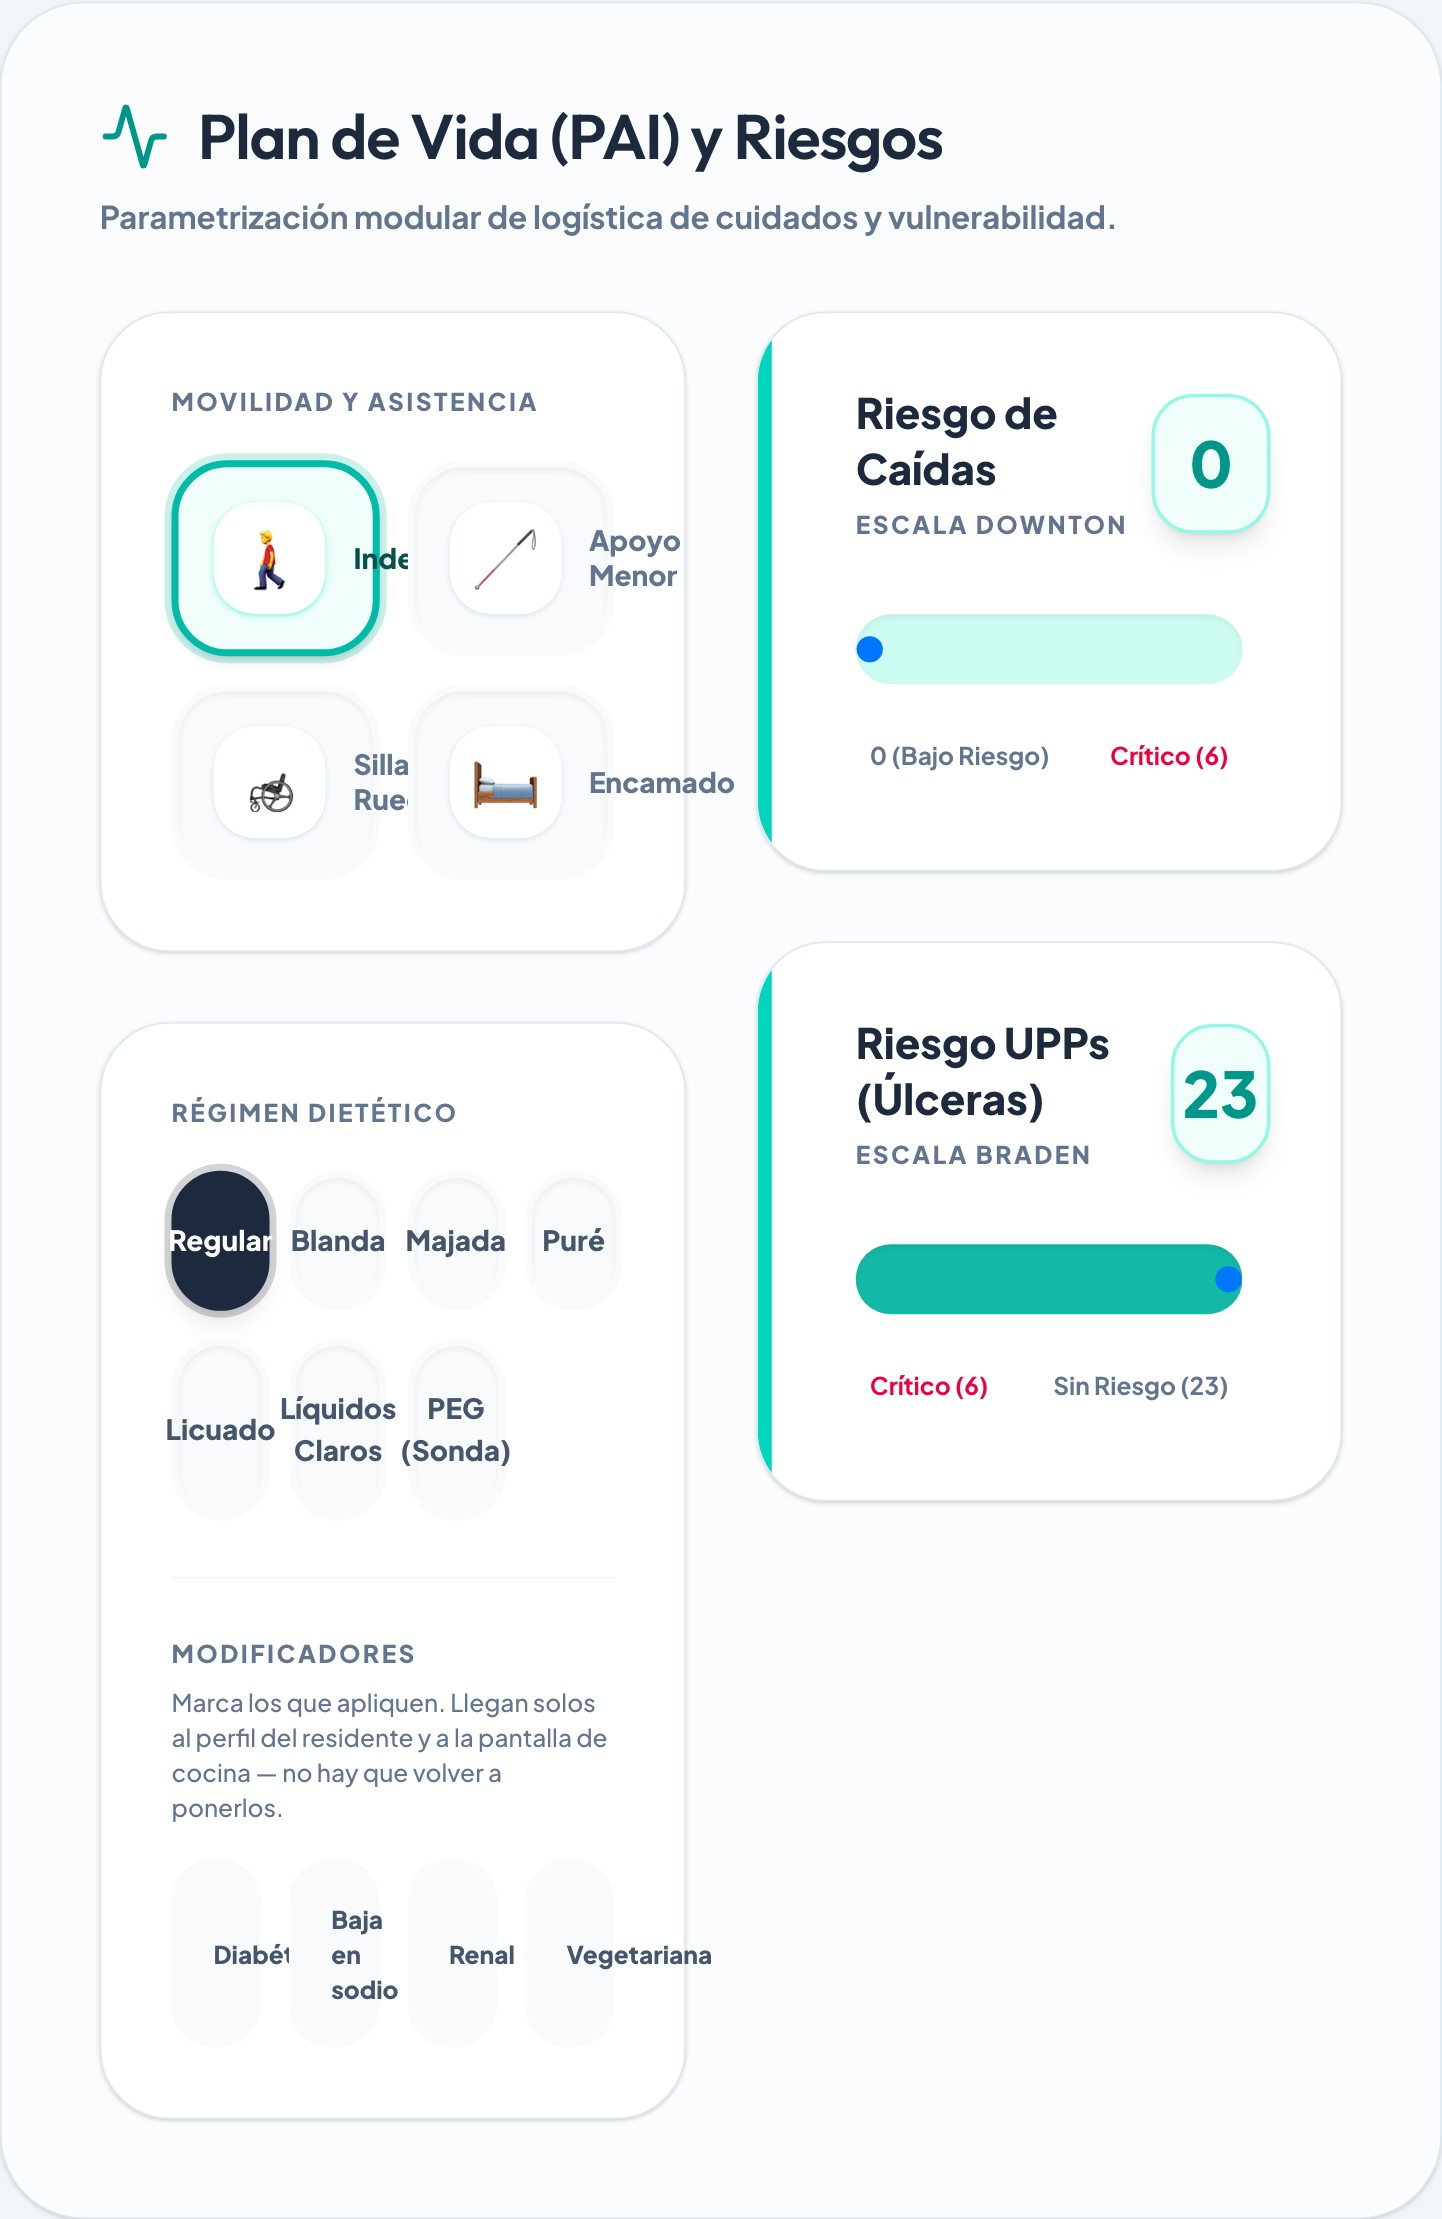
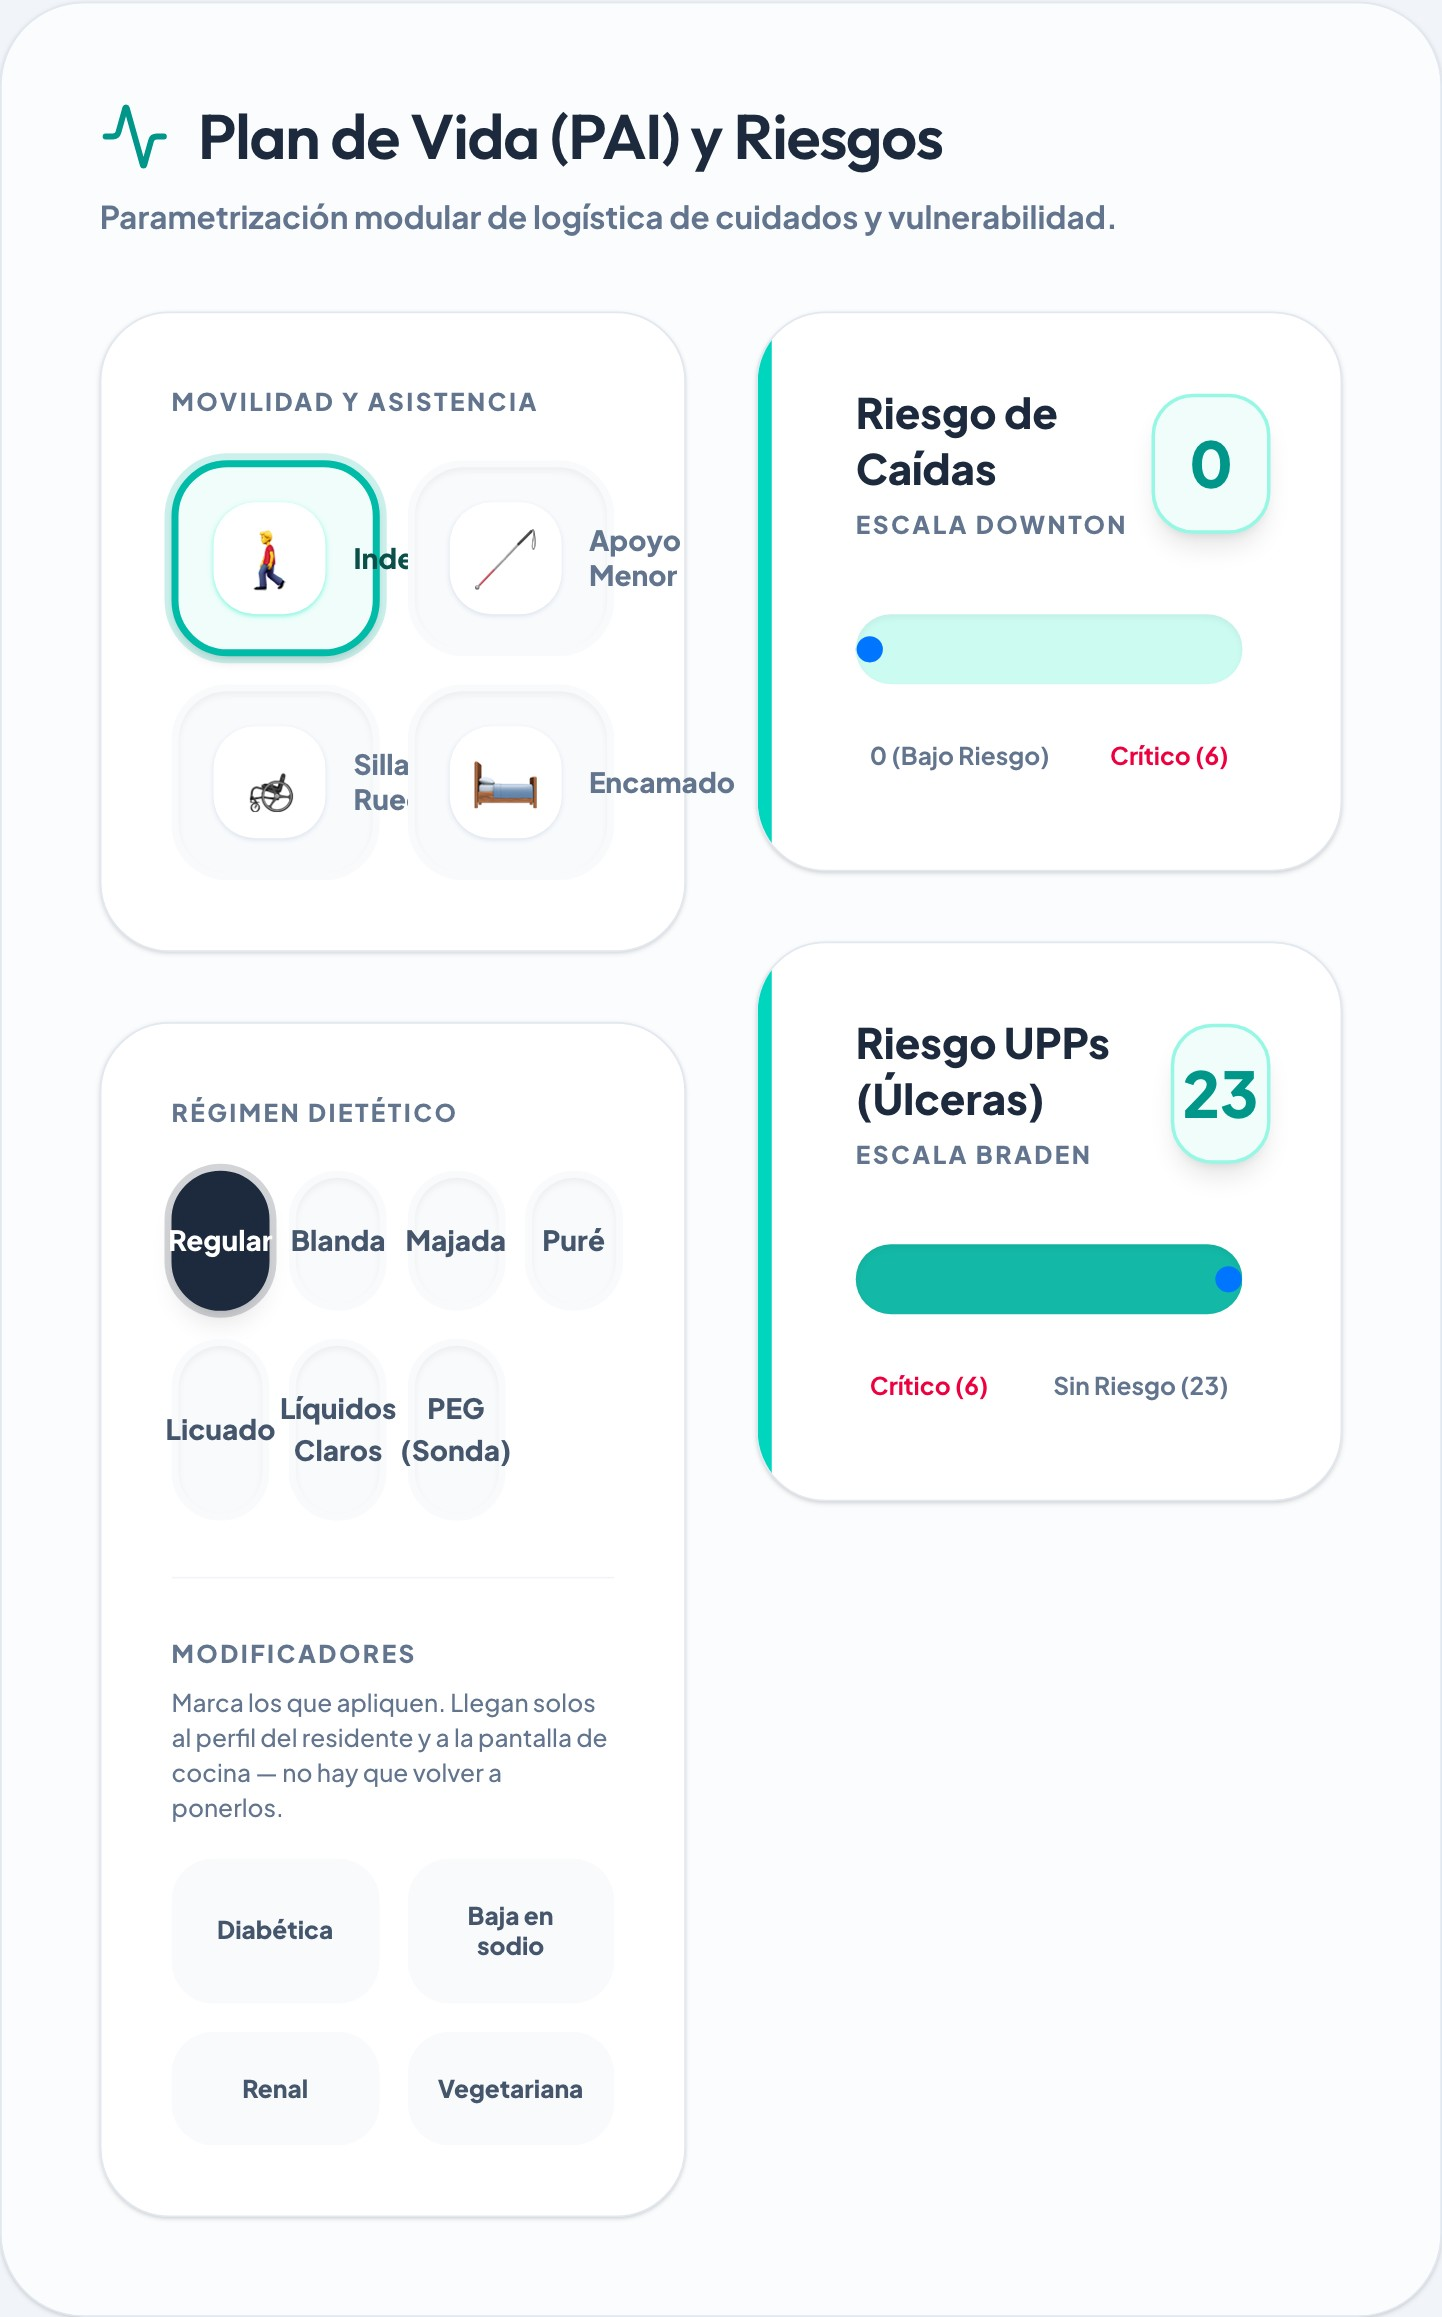
fix(intake): los modificadores de dieta salian cortados, y tres fotos nuevas
A cuatro columnas en una tarjeta estrecha, "Diabetica" se leia "Diab" y
"Vegetariana" se salia del boton. A dos columnas caben enteros.

De paso, el andamio de capturas ya sabe ESCRIBIR en un campo, no solo pulsar:
hacia falta para fotografiar la pauta semanal de punta a punta —nombre, hora,
"Solo ciertos dias", el viernes— que es como se documenta el caso del
alendronato en el material de Celia.

Tres tomas nuevas: la dieta con textura y modificadores, el selector de dias
abierto con su aviso, y el borrador ya con la etiqueta "Solo Viernes".

diff --git a/scripts/capturas/tomar.ts b/scripts/capturas/tomar.ts
@@ -26,8 +26,13 @@ interface Toma {
     esperar?: string;
     /** recorta a este selector en vez de a la página entera */
     recortar?: string;
-    /** clics previos, para fotografiar un modal o una pestaña */
-    clics?: string[];
+    /**
+     * Lo que hay que hacer antes de disparar, EN ORDEN: un selector suelto es
+     * un clic; {escribir, en} teclea en un campo. Van mezclados a proposito —
+     * una pauta semanal se fotografia escribiendo el nombre, marcando la hora,
+     * pulsando "Solo ciertos dias" y luego el dia, en ese orden y no en otro.
+     */
+    clics?: (string | { escribir: string; en: string })[];
     /**
      * Foto de la pagina ENTERA en vez de lo que cabe en pantalla.
      *
@@ -125,6 +130,30 @@ const TOMAS: Toma[] = [
     { nombre: "intake-paso-3-riesgos", ruta: '/capturas/intake', ancho: 1280, alto: 900, esperar: "text=Bloques de Admisión", recortar: "div.flex-1.bg-white", clics: ["text=Dieta, UPP, Caídas"] },
     //   El bloque de PAI y Riesgos: dieta, movilidad, continencia y los dos marcadores con sus escalas, Downton (caídas) y Braden (UPP), que cambian de teal a
     { nombre: "intake-paso-4-emar", ruta: '/capturas/intake', ancho: 1280, alto: 900, esperar: "text=Bloques de Admisión", recortar: "div.flex-1.bg-white", clics: ["text=eMAR Borrador"] },
+    { nombre: "intake-dieta-modificadores", ruta: '/capturas/intake', ancho: 1800, alto: 1000, esperar: "text=Modificadores", recortar: 'div.bg-white:has(> label:text-is("Régimen Dietético"))', clics: ["text=Dieta, UPP, Caídas", "text=Blanda", "text=Diabética", "text=Renal"] },
+    //   El bloque de dieta del paso 3 con la textura Blanda escogida arriba y dos
+    //   modificadores marcados en teal debajo (Diabetica y Renal). Es la foto de que
+    //   la dieta COMPLETA sale del ingreso y no hay que volver a marcarla en el perfil.
+    { nombre: "intake-medicamento-semanal", ruta: '/capturas/intake', ancho: 1280, alto: 1000, esperar: "text=Solo Viernes", recortar: "div.flex-1.bg-white", clics: [
+        "text=eMAR Borrador",
+        { escribir: "Alendronato 70 mg", en: 'input[placeholder*="Losartan"]' },
+        "text=08:00 AM",
+        "text=Solo ciertos días",
+        'button:text-is("V")',
+        'button:text-is("Añadir")',
+    ] },
+    //   El caso del alendronato de punta a punta: nombre, la hora de las 8, "Solo
+    //   ciertos dias", el viernes marcado, y abajo el borrador ya con la etiqueta
+    //   ambar "Solo Viernes". Antes esto habia que arreglarlo despues en Med & Zoning.
+    { nombre: "intake-medicamento-dias", ruta: '/capturas/intake', ancho: 1280, alto: 1000, esperar: "text=Marca al menos un día", recortar: 'div.bg-white:has(> label:text-is("Añadir Nuevo Medicamento"))', clics: [
+        "text=eMAR Borrador",
+        { escribir: "Alendronato 70 mg", en: 'input[placeholder*="Losartan"]' },
+        "text=08:00 AM",
+        "text=Solo ciertos días",
+    ] },
+    //   El selector de dias abierto, ANTES de marcar ninguno: las siete letras y el
+    //   aviso ambar "Marca al menos un dia, o quedara como todos los dias". Es la
+    //   unica trampa del paso, y por eso se fotografia sola.
     //   El Inventario Farmacológico: cómo se añade un medicamento y se le marcan los horarios de distribución (05:00 AM … 10:00 PM, PRN). Es el paso que deja 
     // ── /academy
     { nombre: "academy-entrada", ruta: '/capturas/academy-curso', ancho: 1440, alto: 900, esperar: "text=Centro de Formación" },
@@ -178,7 +207,11 @@ async function main() {
              * puede existir, y darlo por fallido.
              */
             await pag.waitForTimeout(1200); // que hidrate antes de tocar nada
-            for (const sel of t.clics ?? []) { await pag.click(sel); await pag.waitForTimeout(900); }
+            for (const paso of t.clics ?? []) {
+                if (typeof paso === 'string') await pag.click(paso);
+                else await pag.fill(paso.en, paso.escribir);
+                await pag.waitForTimeout(900);
+            }
             if (t.esperar) await pag.waitForSelector(t.esperar, { timeout: 15_000 });
 
             /**

diff --git a/src/app/corporate/patients/intake/page.tsx b/src/app/corporate/patients/intake/page.tsx
@@ -997,7 +997,9 @@ export default function IntakeWizardPage() {
                                         Marca los que apliquen. Llegan solos al perfil del residente y a la
                                         pantalla de cocina — no hay que volver a ponerlos.
                                     </p>
-                                    <div className="grid grid-cols-2 lg:grid-cols-4 gap-4">
+                                    {/* Dos columnas y no cuatro: la tarjeta es estrecha y a cuatro
+                                        "Diabetica" y "Vegetariana" salian cortadas. */}
+                                    <div className="grid grid-cols-2 gap-4">
                                         {MODIFICADORES_DIETA.map(m => {
                                             const puesto = modificadoresDieta.includes(m.id);
                                             return (
@@ -1013,7 +1015,7 @@ export default function IntakeWizardPage() {
                                                                 : [...modificadoresDieta, m.id],
                                                         ),
                                                     )}
-                                                    className={`p-5 rounded-[1.5rem] font-black text-sm transition-all border-4 active:scale-95 ${
+                                                    className={`px-3 py-5 rounded-[1.5rem] font-black text-sm leading-tight transition-all border-4 active:scale-95 ${
                                                         puesto
                                                             ? 'bg-teal-600 border-teal-700 text-white shadow-lg'
                                                             : 'bg-slate-50 border-transparent text-slate-600 hover:bg-slate-100 hover:border-slate-200'
